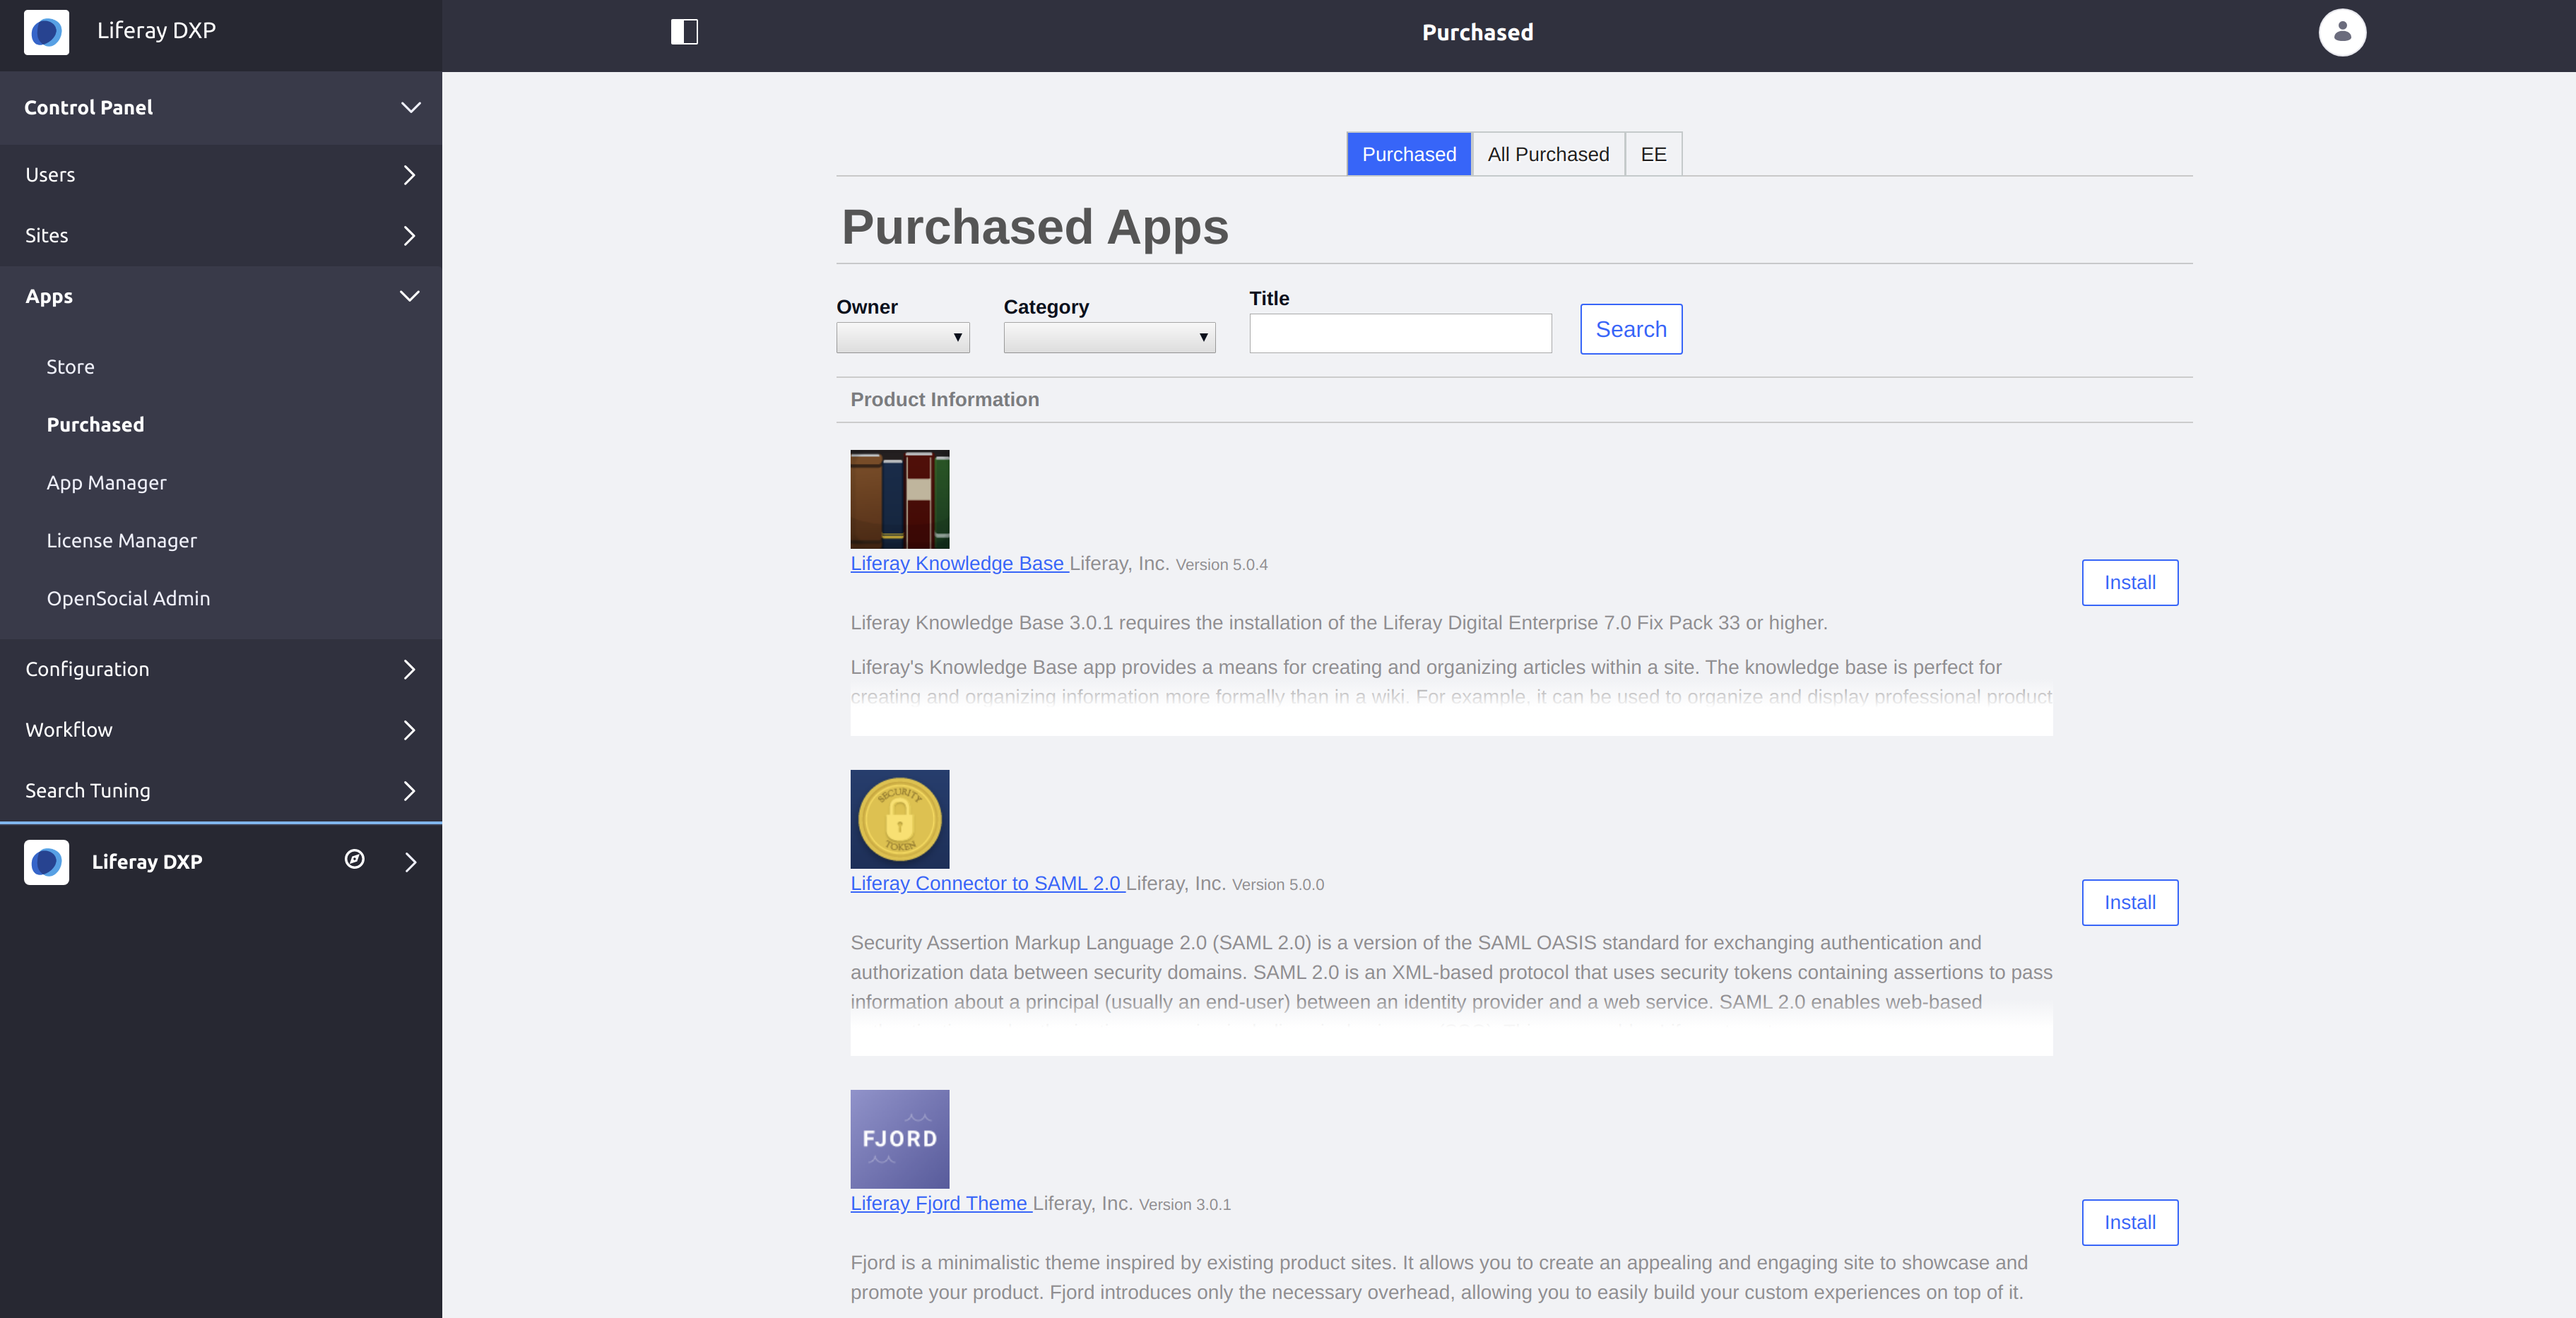
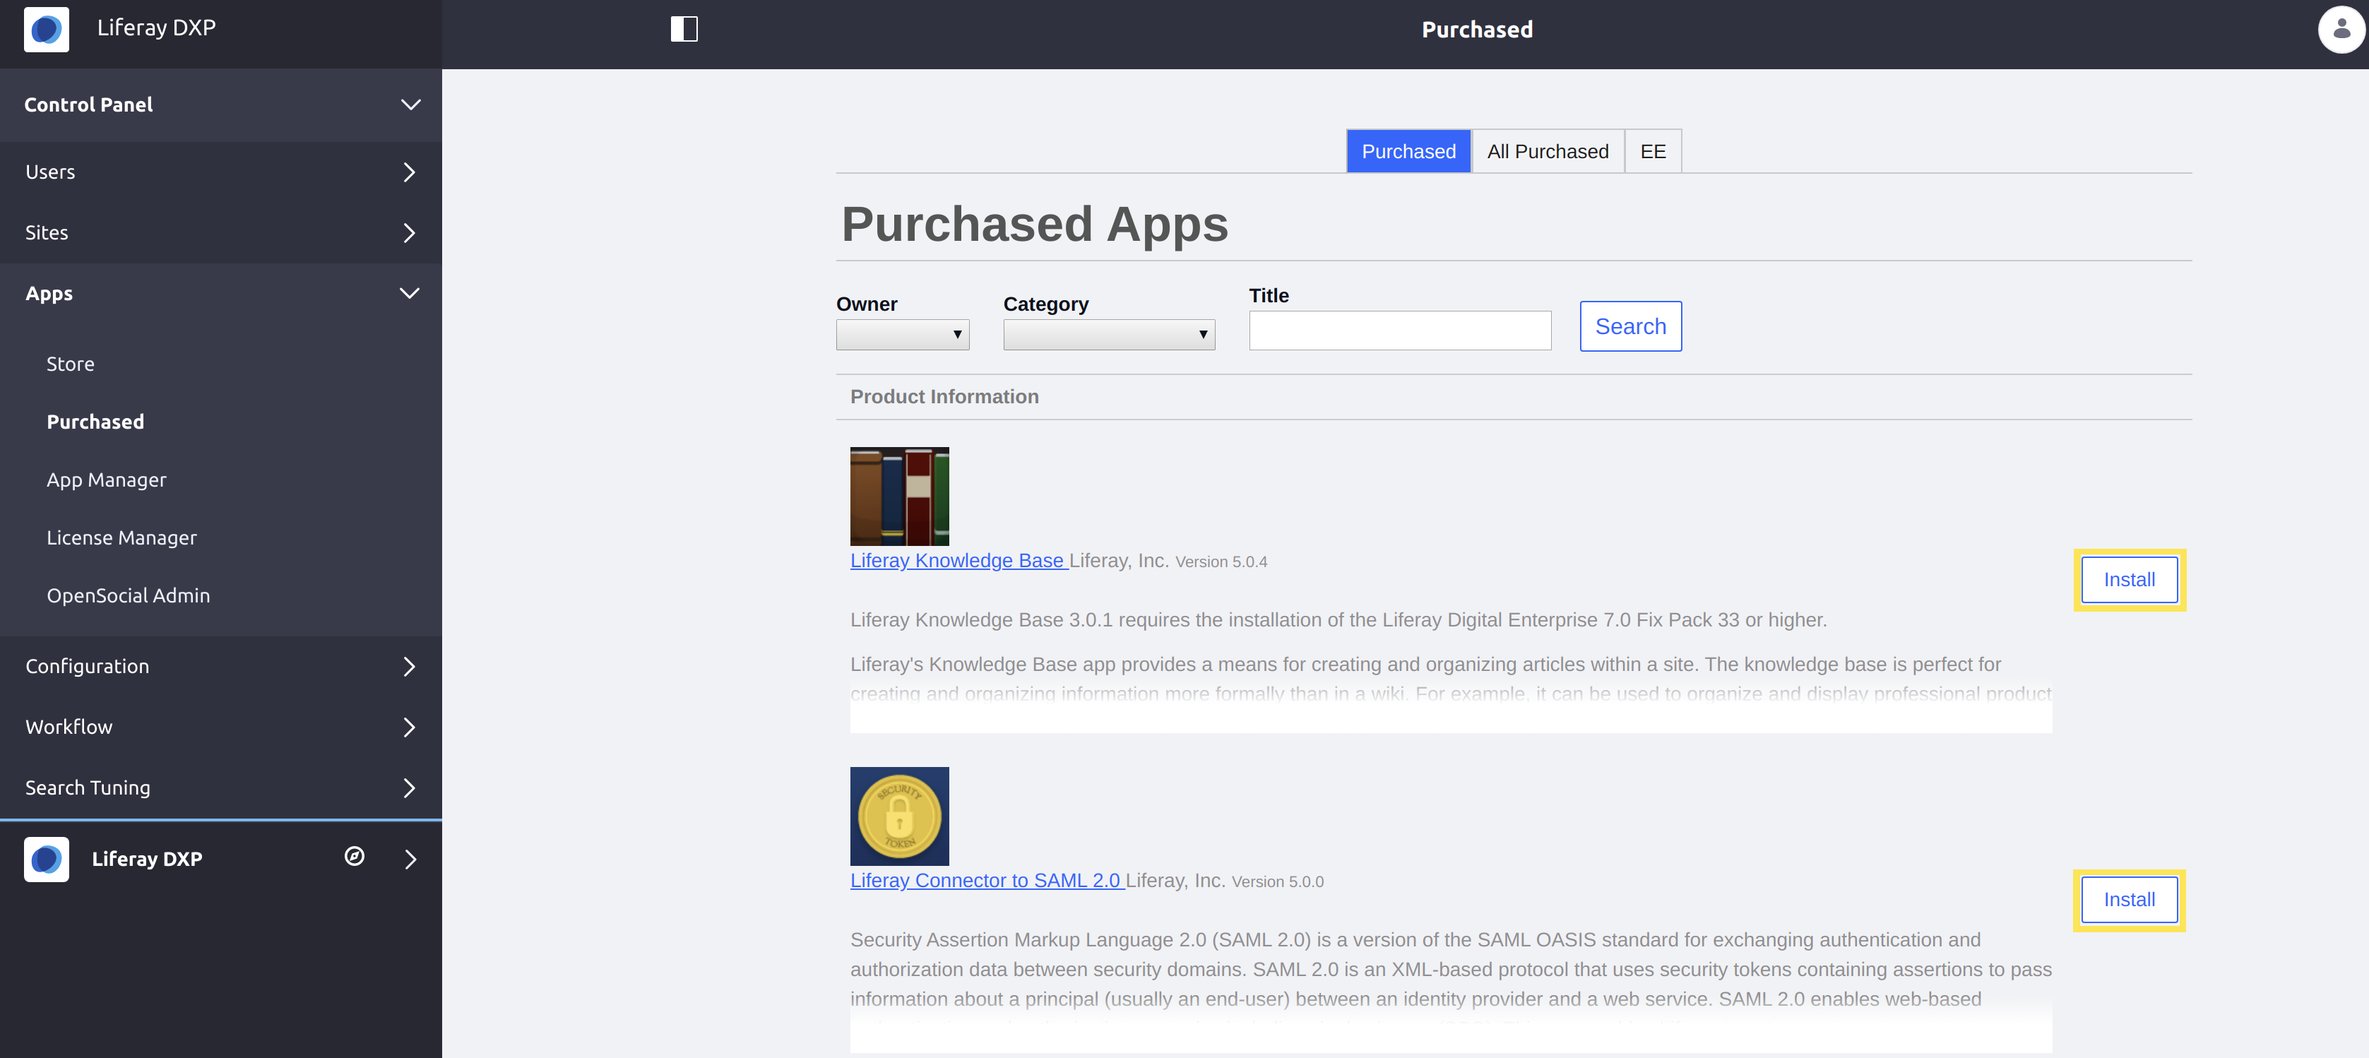
Crop image a bit more, and add highlighting to the mentioned button(s)

diff --git a/docs/dxp/7.x/en/system-administration/installing-and-managing-apps/installing-apps.md b/docs/dxp/7.x/en/system-administration/installing-and-managing-apps/installing-apps.md
@@ -53,8 +53,6 @@ The DXP Control Panel accesses the Marketplace. You browse the Marketplace the s
 
 The Purchased page in the Control Panel at *Apps* &rarr; *Purchased* lists apps that you've previously purchased. Apps that aren't installed have an *Install* button for installing the app on the DXP instance.
 
-<!-- This screenshot needs a highlight to draw attention to the Install button. -->
-
 ![The Purchased Apps screen as it appears in the Control Panel.](./installing-apps/images/01.png)
 
 ### Application Manager
